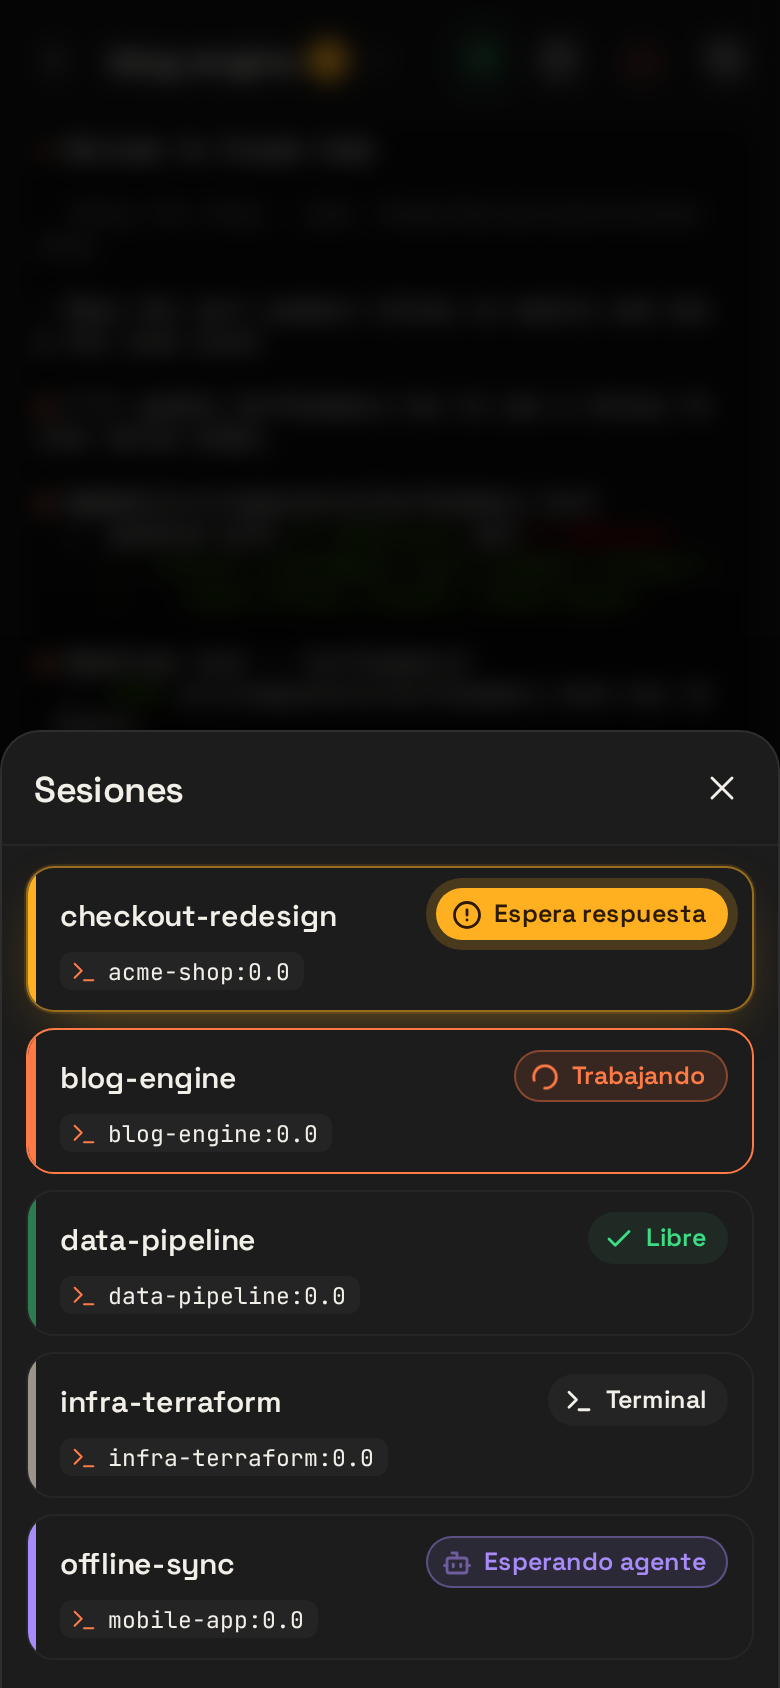
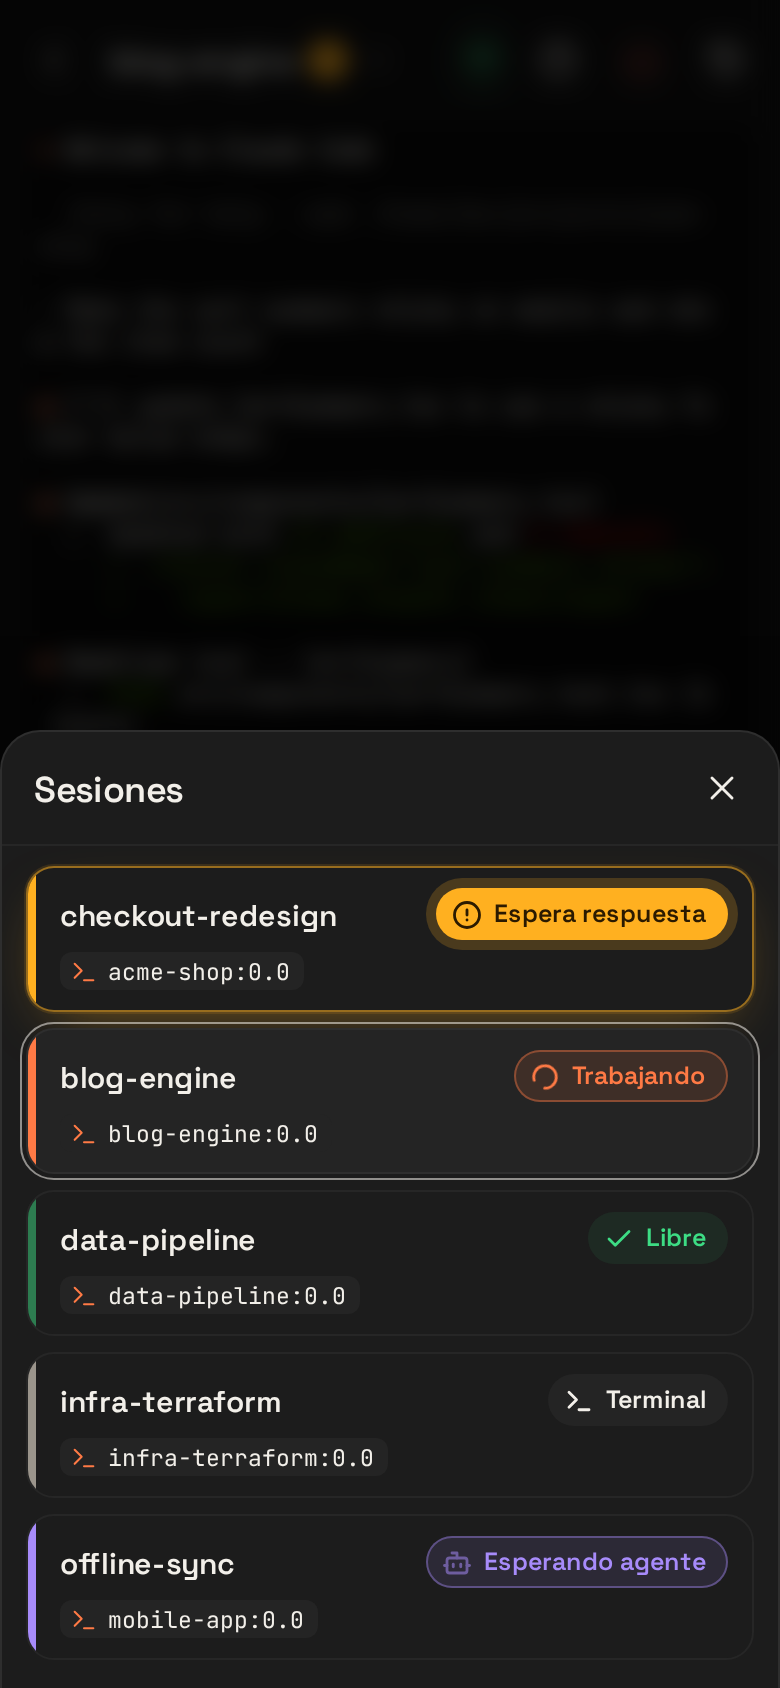
style(switcher): neutral ring for the current card in the phone sheet
The session sheet that opens from inside a session still marked the
current card with the orange accent border, because the earlier change
only touched the desktop sidebar rule (#sessions .card.current). The
shared .card.current rule now uses the same neutral off-white offset
outline, so the only color in the sheet is session state.

Changed region(s): [[0.9538, 0.6161, 0.9846, 0.7085], [0.9231, 0.5853, 0.9538, 0.6161], [0.0308, 0.6777, 0.0615, 0.7085]]

diff --git a/public/style.css b/public/style.css
@@ -202,7 +202,7 @@ button.primary .i { width: 18px; height: 18px; stroke-width: 2.25; }
 .card.compact { padding: 10px 12px 10px 16px; }
 .card.compact .name { font-size: 15px; }
 .card.compact .meta { margin-top: 6px; }
-.card.current { border-color: var(--accent); }
+.card.current { background: var(--raised); border-color: var(--line); outline: 1.5px solid rgba(242, 239, 233, .55); outline-offset: 2px; }
 
 /* El botón de split solo existe en escritorio. */
 .split-btn { display: none; }
